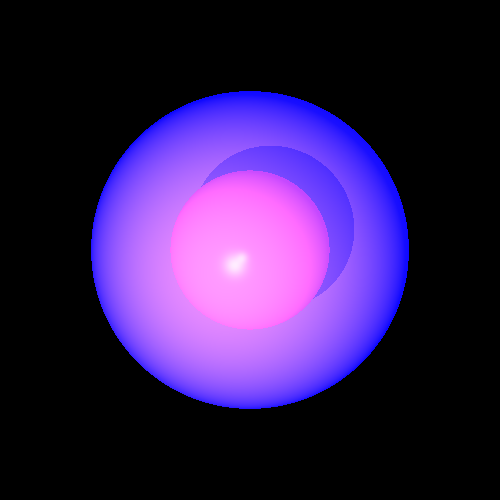
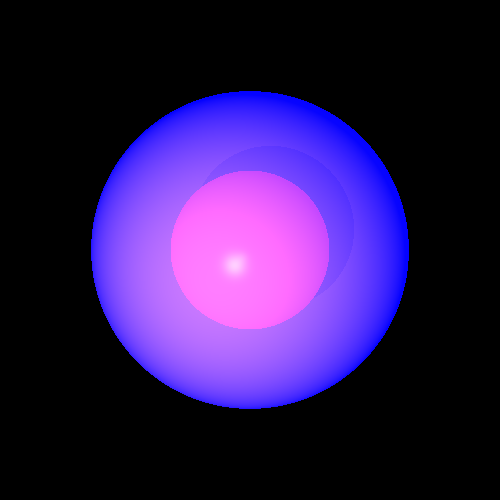
stage 7: End:

Changed region(s): [[0.27, 0.21, 0.78, 0.72], [0.57, 0.42, 0.6, 0.45], [0.54, 0.39, 0.57, 0.42]]

diff --git a/src/renderer/RayTracerBasic.java b/src/renderer/RayTracerBasic.java
@@ -61,12 +61,11 @@ public class RayTracerBasic extends RayTracerBase {
 
     private Color calcColor(GeoPoint gp, Ray ray) {
         return calcColor(gp, ray, MAX_CALC_COLOR_LEVEL, INITIAL_K).add(scene.getAmbientLight().getIntensity());
-
     }
 
 
     private Color calcColor(GeoPoint gp, Ray ray, int level, Double3 k) {
-        Color color = calcLocalEffects(gp, ray);
+        Color color = calcLocalEffects(gp, ray, k);
         return level == 1 ? color : color.add(calcGlobalEffects(gp, ray, level, k));
     }
 
@@ -78,7 +77,7 @@ public class RayTracerBasic extends RayTracerBase {
      * @param ray The ray.
      * @return The color with local effects applied.
      */
-    private Color calcLocalEffects(GeoPoint gp, Ray ray) {
+    private Color calcLocalEffects(GeoPoint gp, Ray ray, Double3 k) {
         // Start with the emission color of the geometry
         Color color = gp.geometry.getEmission();
 
@@ -105,16 +104,18 @@ public class RayTracerBasic extends RayTracerBase {
             double nl = alignZero(n.dotProduct(l));
 
             // If the signs of nl and nv are the same, calculate the diffuse and specular effects
-            if (nl * nv > 0 && unshaded(gp, lightSource, l)) { // sign(nl) == sing(nv)
+            if (nl * nv > 0) { // sign(nl) == sing(nv)
+                Double3 ktr = transparency(gp, lightSource, l);
+                if (ktr.product(k).greaterThan(MIN_CALC_COLOR_K)){
+                    // Get the intensity of the light source at the geometric point
+                    Color iL = lightSource.getIntensity(gp.point).scale(ktr);
 
-                // Get the intensity of the light source at the geometric point
-                Color iL = lightSource.getIntensity(gp.point);
-
-                // Add the diffuse and specular components to the color
-                color = color.add(
-                        iL.scale(calcDiffusive(material, nl)),
-                        iL.scale(calcSpecular(material, n, l, nl, v))
-                );
+                    // Add the diffuse and specular components to the color
+                    color = color.add(
+                            iL.scale(calcDiffusive(material, nl)),
+                            iL.scale(calcSpecular(material, n, l, nl, v))
+                    );
+                }
             }
         }
         return color;
@@ -231,7 +232,7 @@ public class RayTracerBasic extends RayTracerBase {
      * @param l        The direction vector from the point to the light source.
      * @return True if the point is unshaded by the light source, false otherwise.
      */
-    private boolean unshaded(GeoPoint gp, LightSource light, Vector l) {
+    private Double3 transparency(GeoPoint gp, LightSource light, Vector l) {
         // gp = Point on the shape, light = the light source,
         // l = light direction, n = the normal vector
         // nl = dotProduct of n and l
@@ -246,18 +247,14 @@ public class RayTracerBasic extends RayTracerBase {
 
         //We will only return false here if there is a point on the path that is not transparent at all
         if (intersections == null){
-            return true;
+            return Double3.ONE;//צריך עיון
         } else{
-            boolean flag = true;
+            Double3 ktr = Double3.ONE;
             //We will go over all the points and check transparency
             for(GeoPoint intersection : intersections){
-                if (intersection.geometry.getMaterial().Kt.equals(Double3.ZERO))
-                {
-                    flag = false;
-                    break;
-                }
+                ktr = ktr.product(intersection.geometry.getMaterial().Kt);
             }
-            return flag;
+            return ktr;
         }
     }
 

diff --git a/unitTests/mainModel/mainModel.java b/unitTests/mainModel/mainModel.java
@@ -1,0 +1,10 @@
+package mainModel;
+
+import org.junit.jupiter.api.Test;
+
+public class mainModel {
+    @Test
+    void diamond() {
+
+    }
+}
